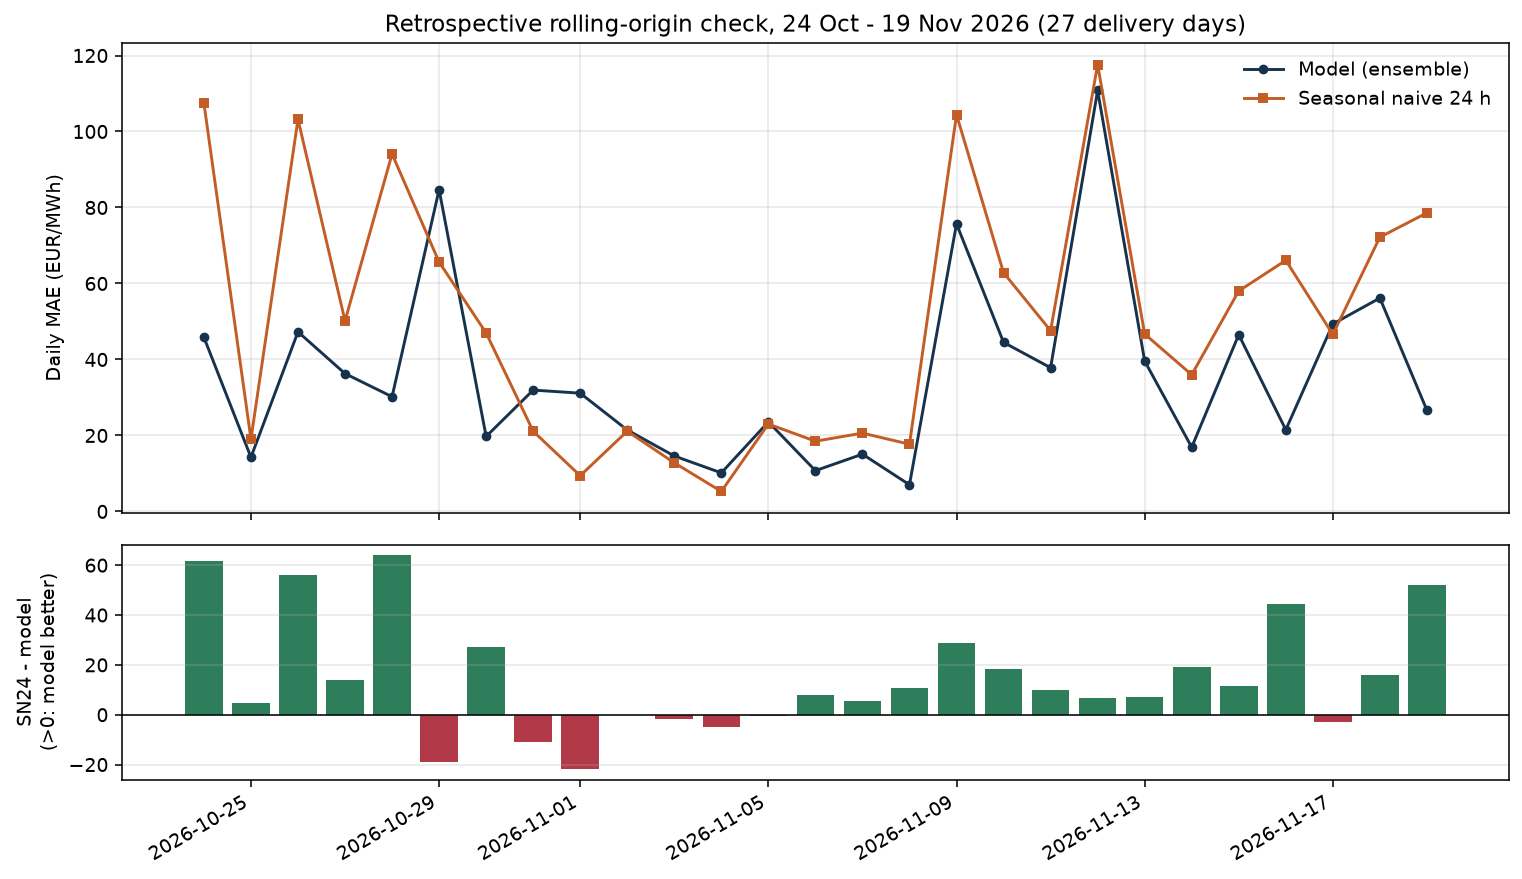
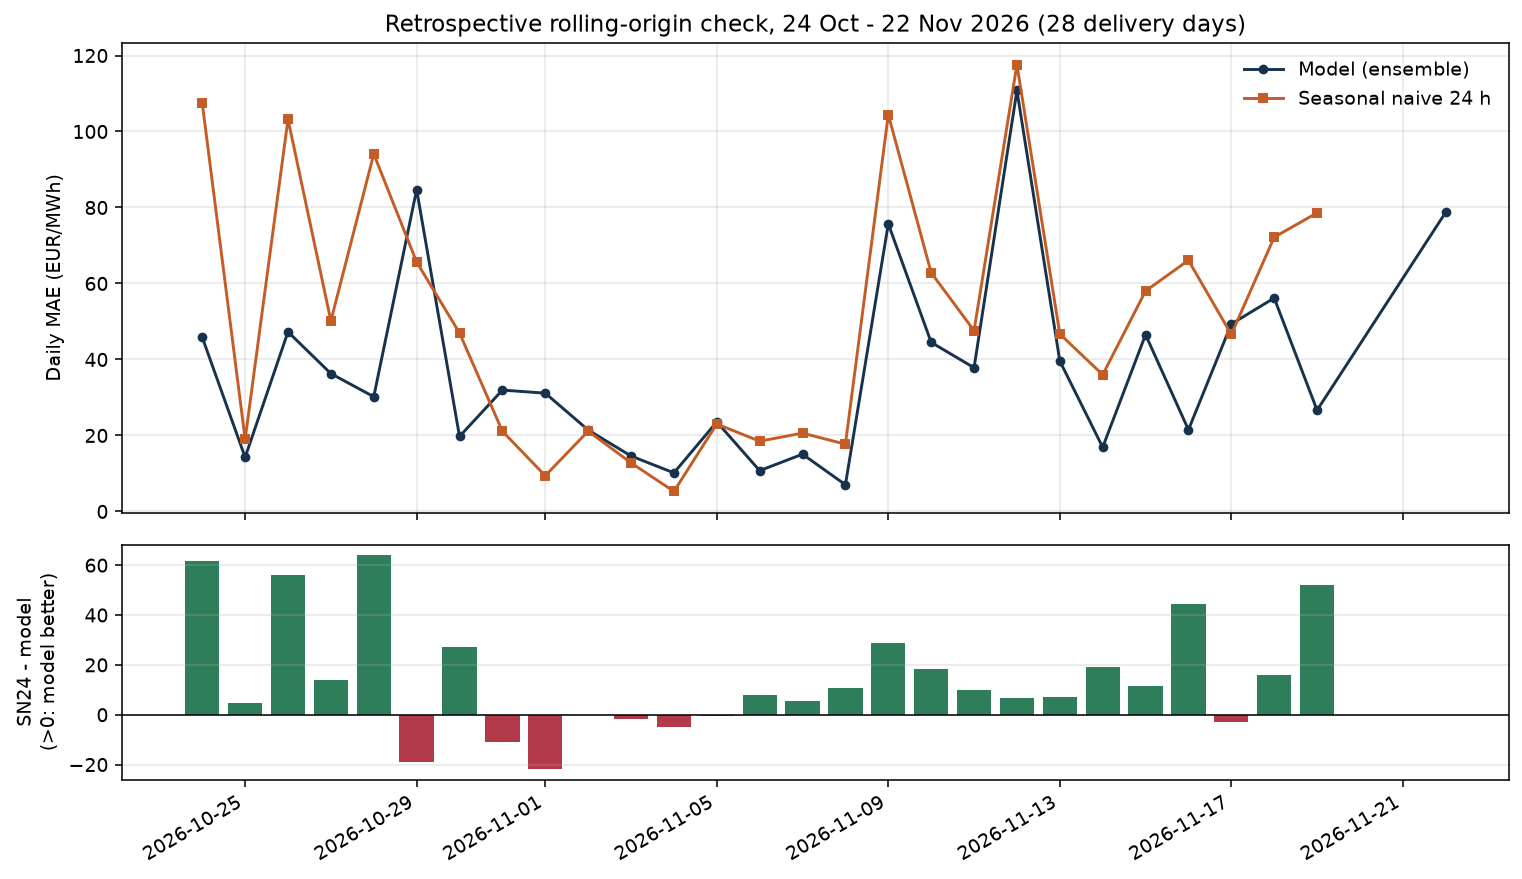
chore: daily forecast 2026-11-22

diff --git a/README.md b/README.md
@@ -10,7 +10,7 @@ Leakage-aware forecasting of German EPEX Spot day-ahead prices (DE/LU, EUR/MWh) 
 ## Key findings (as of the latest run)
 
 <!-- KEY_START -->
-1. **Gate-safe model beats seasonal naive.** 26 % lower MAE than SN24 in an 89-day backtest and 29 % in a 27-day retrospective rolling check (section 5).
+1. **Gate-safe model beats seasonal naive.** 26 % lower MAE than SN24 in an 89-day backtest and 26 % in a 28-day retrospective rolling check (section 5).
 2. **The original rolling features leaked.** Removing the leak costs 1.68 EUR/MWh (6.0 % of MAE).
 3. **External data add no skill at a 24 h lag** (a price-only model is as good). Un-lagged externals would lower MAE by 7.4 EUR/MWh, but only if forecasts available before gate closure can be sourced.
 4. **No claim about live performance yet.** Valid pre-gate live days are counted in the live block at the end of this file.
@@ -61,7 +61,7 @@ Entry points: `scripts/run_daily_forecast.py` (live), `scripts/run_rolling_eval.
 
 ## 5. Results
 
-_Auto-generated by `scripts/run_ablation.py` / `scripts/run_rolling_eval.py` - last update 2026-11-21 09:46 UTC._
+_Auto-generated by `scripts/run_ablation.py` / `scripts/run_rolling_eval.py` - last update 2026-11-22 09:46 UTC._
 
 ### 5.1 Backtest ablation (gate-closure protocol)
 
@@ -86,11 +86,11 @@ Expanding-window backtest, 89 test days (2136 hours) in three windows. p-values:
 
 ### 5.2 Retrospective rolling-origin check (same code as the live job)
 
-For each Berlin delivery day 2026-10-24 to 2026-11-19 the data from that day onward is hidden, the ensemble is retrained, and a direct 24 h forecast is scored. This is a **replay**, not a live pre-gate record.
+For each Berlin delivery day 2026-10-24 to 2026-11-22 the data from that day onward is hidden, the ensemble is retrained, and a direct 24 h forecast is scored. This is a **replay**, not a live pre-gate record.
 
 | Days | MAE model | MAE SN24 | MAE SN168 | Days model < SN24 | Days model < better of SN24/SN168 | DM p vs SN24 (daily) |
 |------|-----------|----------|-----------|-------------------|-----------------------------------|----------------------|
-| 27 | **35.90** | 50.84 | 100.88 | 19/27 | 17/27 | 0.001 |
+| 28 | **37.43** | 50.84 | 99.57 | 19/28 | 17/28 | 0.001 |
 
 ![Rolling check](reports/figures/rolling_eval.png)
 
@@ -179,9 +179,9 @@ Code: MIT. Market data remain under their original terms. SMARD-related series: 
 
 ## Live daily forecast
 
-**Generated (UTC):** 2026-11-21 09:46  
-**Based on data up to (UTC):** 2026-11-19 22:00  
-**Forecast horizon (UTC):** 2026-11-21 23:00 to 2026-11-22 22:00  
+**Generated (UTC):** 2026-11-22 09:46  
+**Based on data up to (UTC):** 2026-11-22 22:00  
+**Forecast horizon (UTC):** 2026-11-22 23:00 to 2026-11-23 22:00  
 **Protocol:** gate-closure features (lags >= 24 h, complete-day context) + external_shift = 24 + direct 24h + shrunk hourly bias correction
 
 ### Forecast chart
@@ -192,30 +192,30 @@ Code: MIT. Market data remain under their original terms. SMARD-related series: 
 
 | Hour (UTC) | Forecast (EUR/MWh) | Bias |
 |------------|--------------------|------|
-| 2026-11-21 23:00 | 117.08 | 0.00 |
-| 2026-11-22 00:00 | 113.91 | 0.00 |
-| 2026-11-22 01:00 | 110.32 | 0.00 |
-| 2026-11-22 02:00 | 112.22 | 0.00 |
-| 2026-11-22 03:00 | 113.22 | 0.00 |
-| 2026-11-22 04:00 | 115.37 | 0.00 |
-| 2026-11-22 05:00 | 118.02 | 0.00 |
-| 2026-11-22 06:00 | 120.83 | 0.00 |
-| 2026-11-22 07:00 | 121.97 | 0.00 |
-| 2026-11-22 08:00 | 119.66 | 0.00 |
-| 2026-11-22 09:00 | 121.86 | 0.00 |
-| 2026-11-22 10:00 | 119.28 | 0.00 |
-| 2026-11-22 11:00 | 119.76 | 0.00 |
-| 2026-11-22 12:00 | 123.45 | 0.00 |
-| 2026-11-22 13:00 | 126.10 | 0.00 |
-| 2026-11-22 14:00 | 132.23 | 0.00 |
-| 2026-11-22 15:00 | 135.87 | 0.00 |
-| 2026-11-22 16:00 | 143.84 | 0.00 |
-| 2026-11-22 17:00 | 142.10 | 0.00 |
-| 2026-11-22 18:00 | 139.74 | 0.00 |
-| 2026-11-22 19:00 | 129.17 | 0.00 |
-| 2026-11-22 20:00 | 125.94 | 0.00 |
-| 2026-11-22 21:00 | 120.54 | 0.00 |
-| 2026-11-22 22:00 | 115.87 | 0.00 |
+| 2026-11-22 23:00 | 161.45 | -3.16 |
+| 2026-11-23 00:00 | 183.24 | -2.69 |
+| 2026-11-23 01:00 | 178.52 | -1.59 |
+| 2026-11-23 02:00 | 182.58 | -2.18 |
+| 2026-11-23 03:00 | 181.12 | -0.80 |
+| 2026-11-23 04:00 | 193.55 | -0.40 |
+| 2026-11-23 05:00 | 218.36 | -3.41 |
+| 2026-11-23 06:00 | 246.17 | -1.24 |
+| 2026-11-23 07:00 | 253.25 | -1.19 |
+| 2026-11-23 08:00 | 245.40 | -3.45 |
+| 2026-11-23 09:00 | 239.14 | -5.79 |
+| 2026-11-23 10:00 | 235.52 | -5.89 |
+| 2026-11-23 11:00 | 234.12 | -4.78 |
+| 2026-11-23 12:00 | 230.33 | -2.55 |
+| 2026-11-23 13:00 | 243.95 | -0.11 |
+| 2026-11-23 14:00 | 260.95 | 0.64 |
+| 2026-11-23 15:00 | 278.40 | 2.03 |
+| 2026-11-23 16:00 | 285.63 | -0.20 |
+| 2026-11-23 17:00 | 280.00 | -2.36 |
+| 2026-11-23 18:00 | 272.02 | -3.36 |
+| 2026-11-23 19:00 | 245.92 | -3.40 |
+| 2026-11-23 20:00 | 227.49 | -7.38 |
+| 2026-11-23 21:00 | 217.25 | -9.19 |
+| 2026-11-23 22:00 | 208.26 | -10.81 |
 
 ### Previous forecasts vs realized prices
 
@@ -225,10 +225,11 @@ Code: MIT. Market data remain under their original terms. SMARD-related series: 
 | `forecast_2026-11-17.csv` | 24 | 55.82 | 46.58 | 139.90 | 1.20 | 0.40 | True | yes |
 | `forecast_2026-11-18.csv` | 24 | 51.79 | 72.19 | 170.40 | 0.72 | 0.30 | True | yes |
 | `forecast_2026-11-19.csv` | 24 | 40.31 | 78.58 | 36.01 | 0.51 | 1.12 | True | yes |
+| `forecast_2026-11-22.csv` | 24 | 80.82 | nan | 64.39 | nan | 1.25 | True | yes |
 
-**Valid scored days: 3 | mean MAE model 49.31 | SN24 65.78 | SN168 115.44 | best-of-baselines 51.59**
+**Valid scored days: 4 | mean MAE model 57.19 | SN24 65.78 | SN168 102.67 | best-of-baselines 54.79**
 
-**Days model beats SN24: 2/3 | beats the better of SN24/SN168: 1/3**
+**Days model beats SN24: 2/4 | beats the better of SN24/SN168: 1/4**
 
 _Only rows marked 'Counted = yes' enter the summary. Files from the old code (Pre-gate nan), post-gate runs and duplicate delivery days are shown for transparency but not counted. No statistical claim until >= 60 valid days._
 
